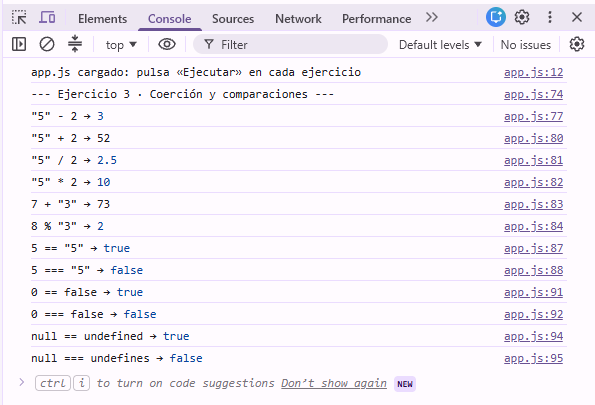
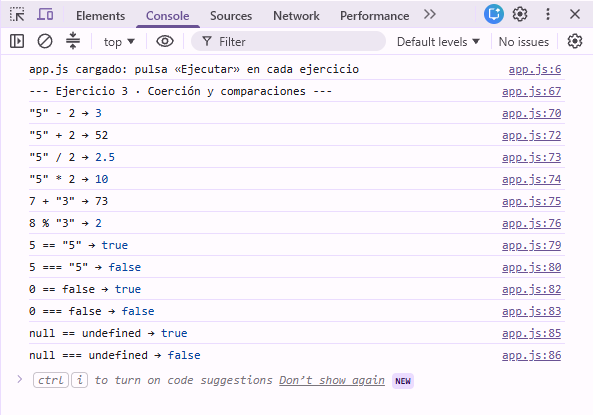
seguna revision de proyecto, correccion de erratas falta Readme y corregir capturas

Changed region(s): [[0.0, 0.0, 1.0, 0.9778], [0.5767, 0.0296, 0.7589, 0.0593], [0.4553, 0.0296, 0.5464, 0.0593]]

diff --git a/tema03/index.html b/tema03/index.html
@@ -445,7 +445,7 @@
 
             <div class="alert alert-danger">
         <pre><code>Uncaught TypeError: Assignment to constant variable.
-            at &lt;anonymous&gt;:1:7</code></pre><br>
+            at &lt;anonymous&gt;:1:12</code></pre><br>
             Un <code>TypeError</code> es un error que ocurre en JavaScript cuando intentas cambiar el valor  de una variable que fue declarada con <code>const</code>. 
             La asignación de la variable es de solo lectura y no puede modificarse mas adelante.
         
